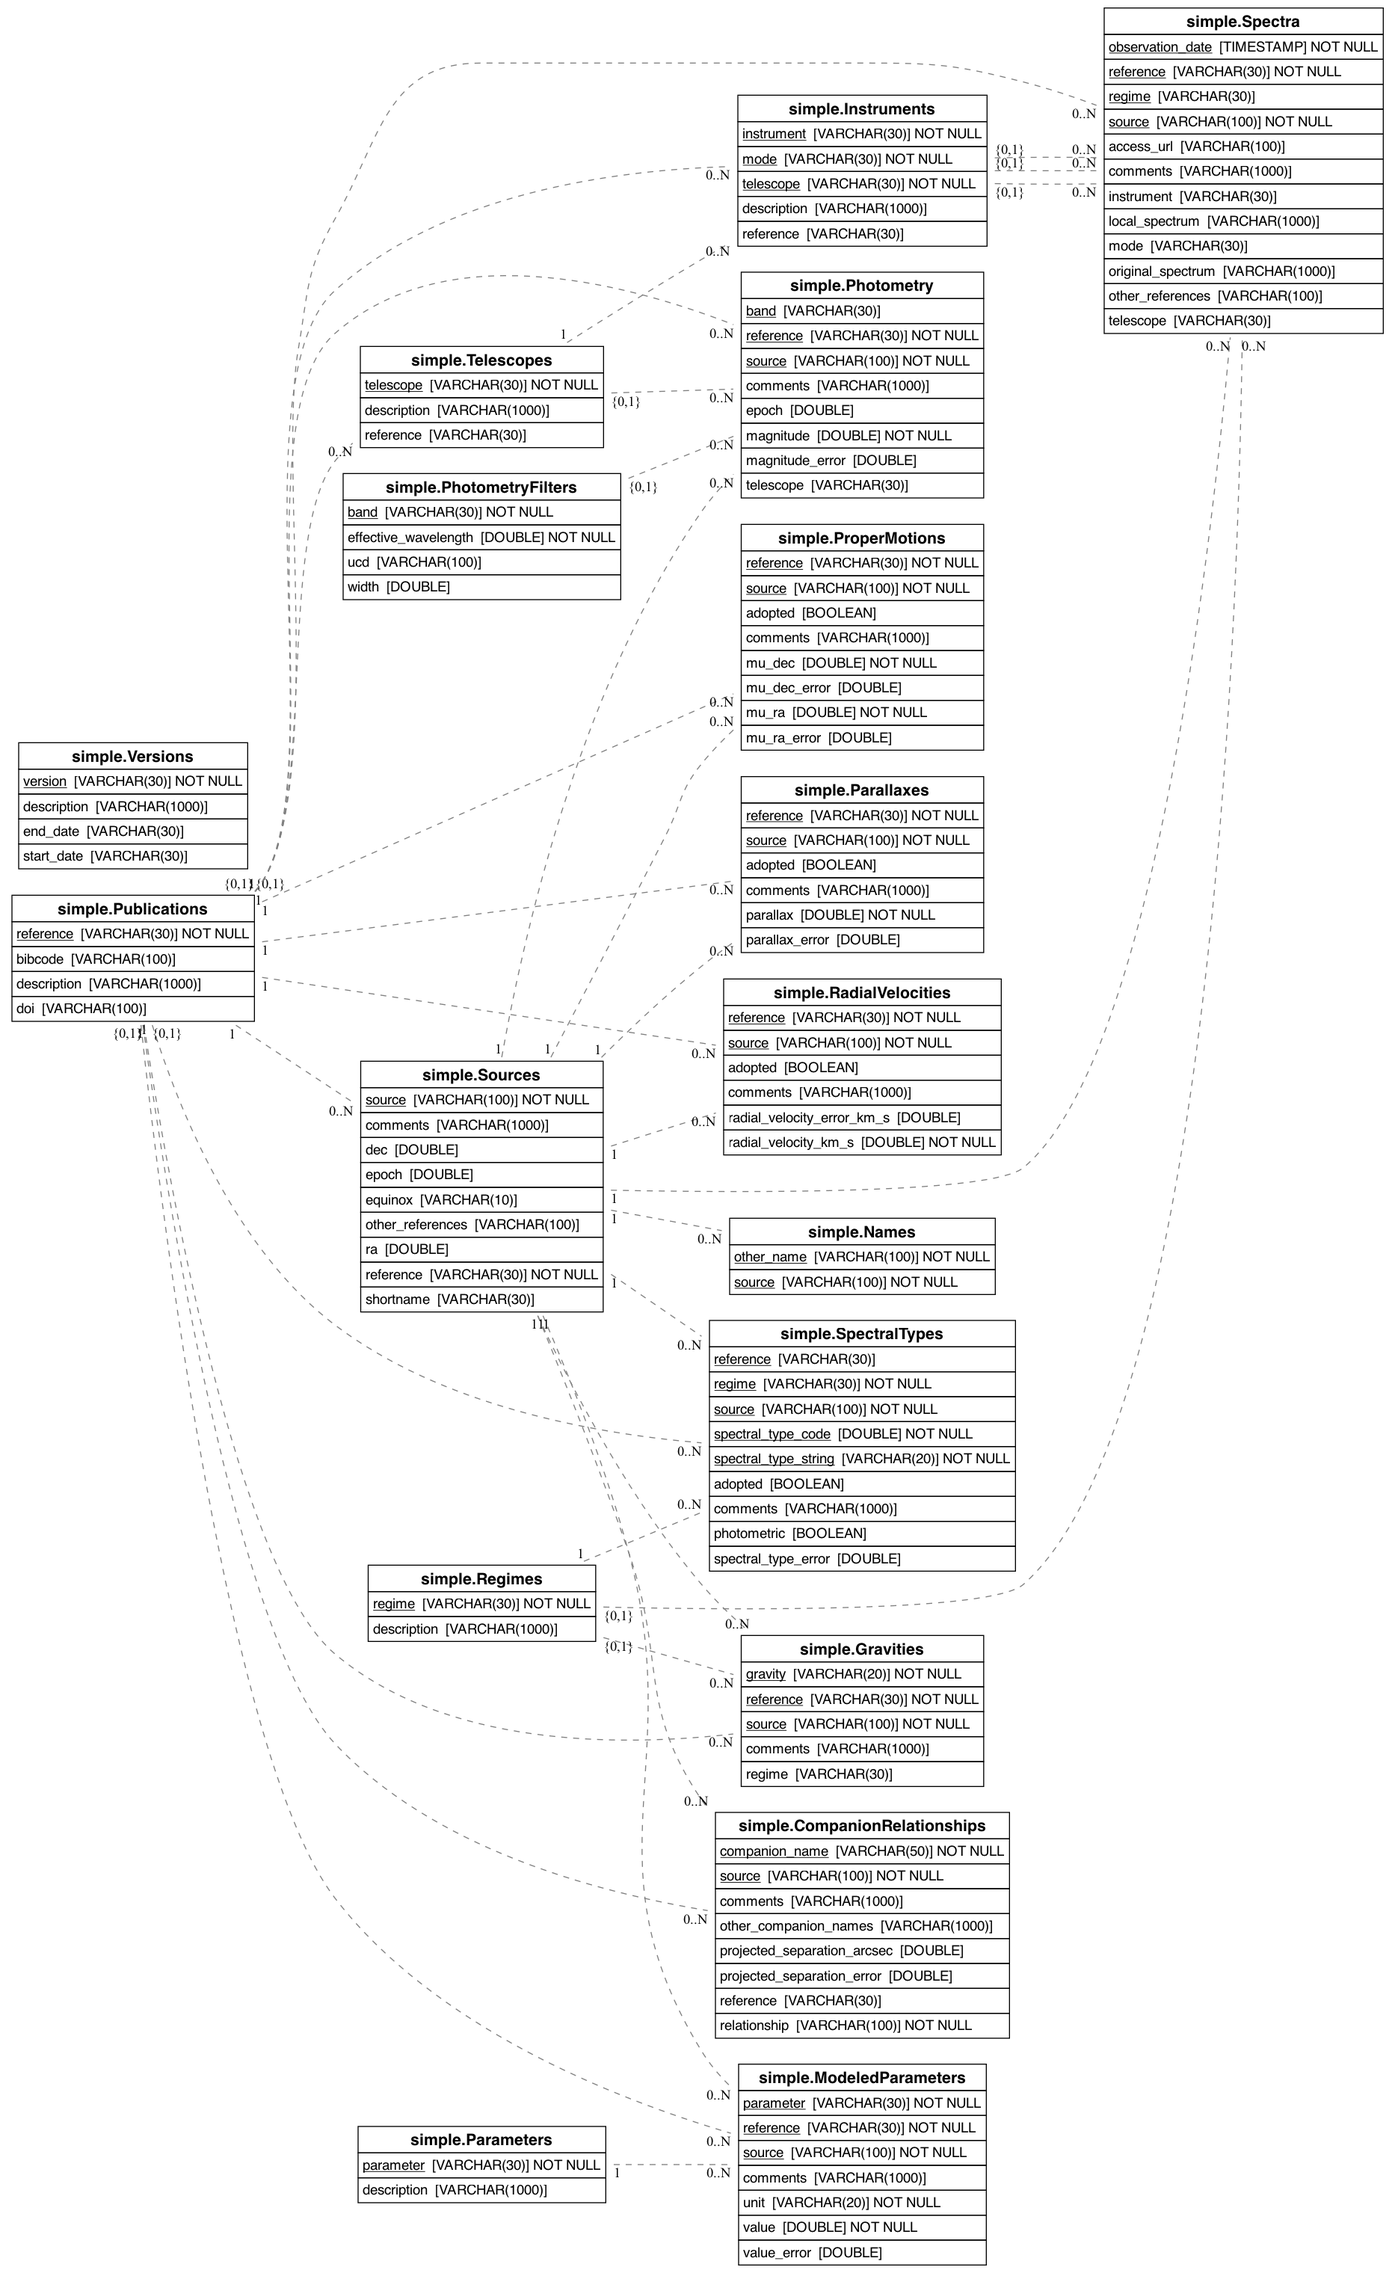
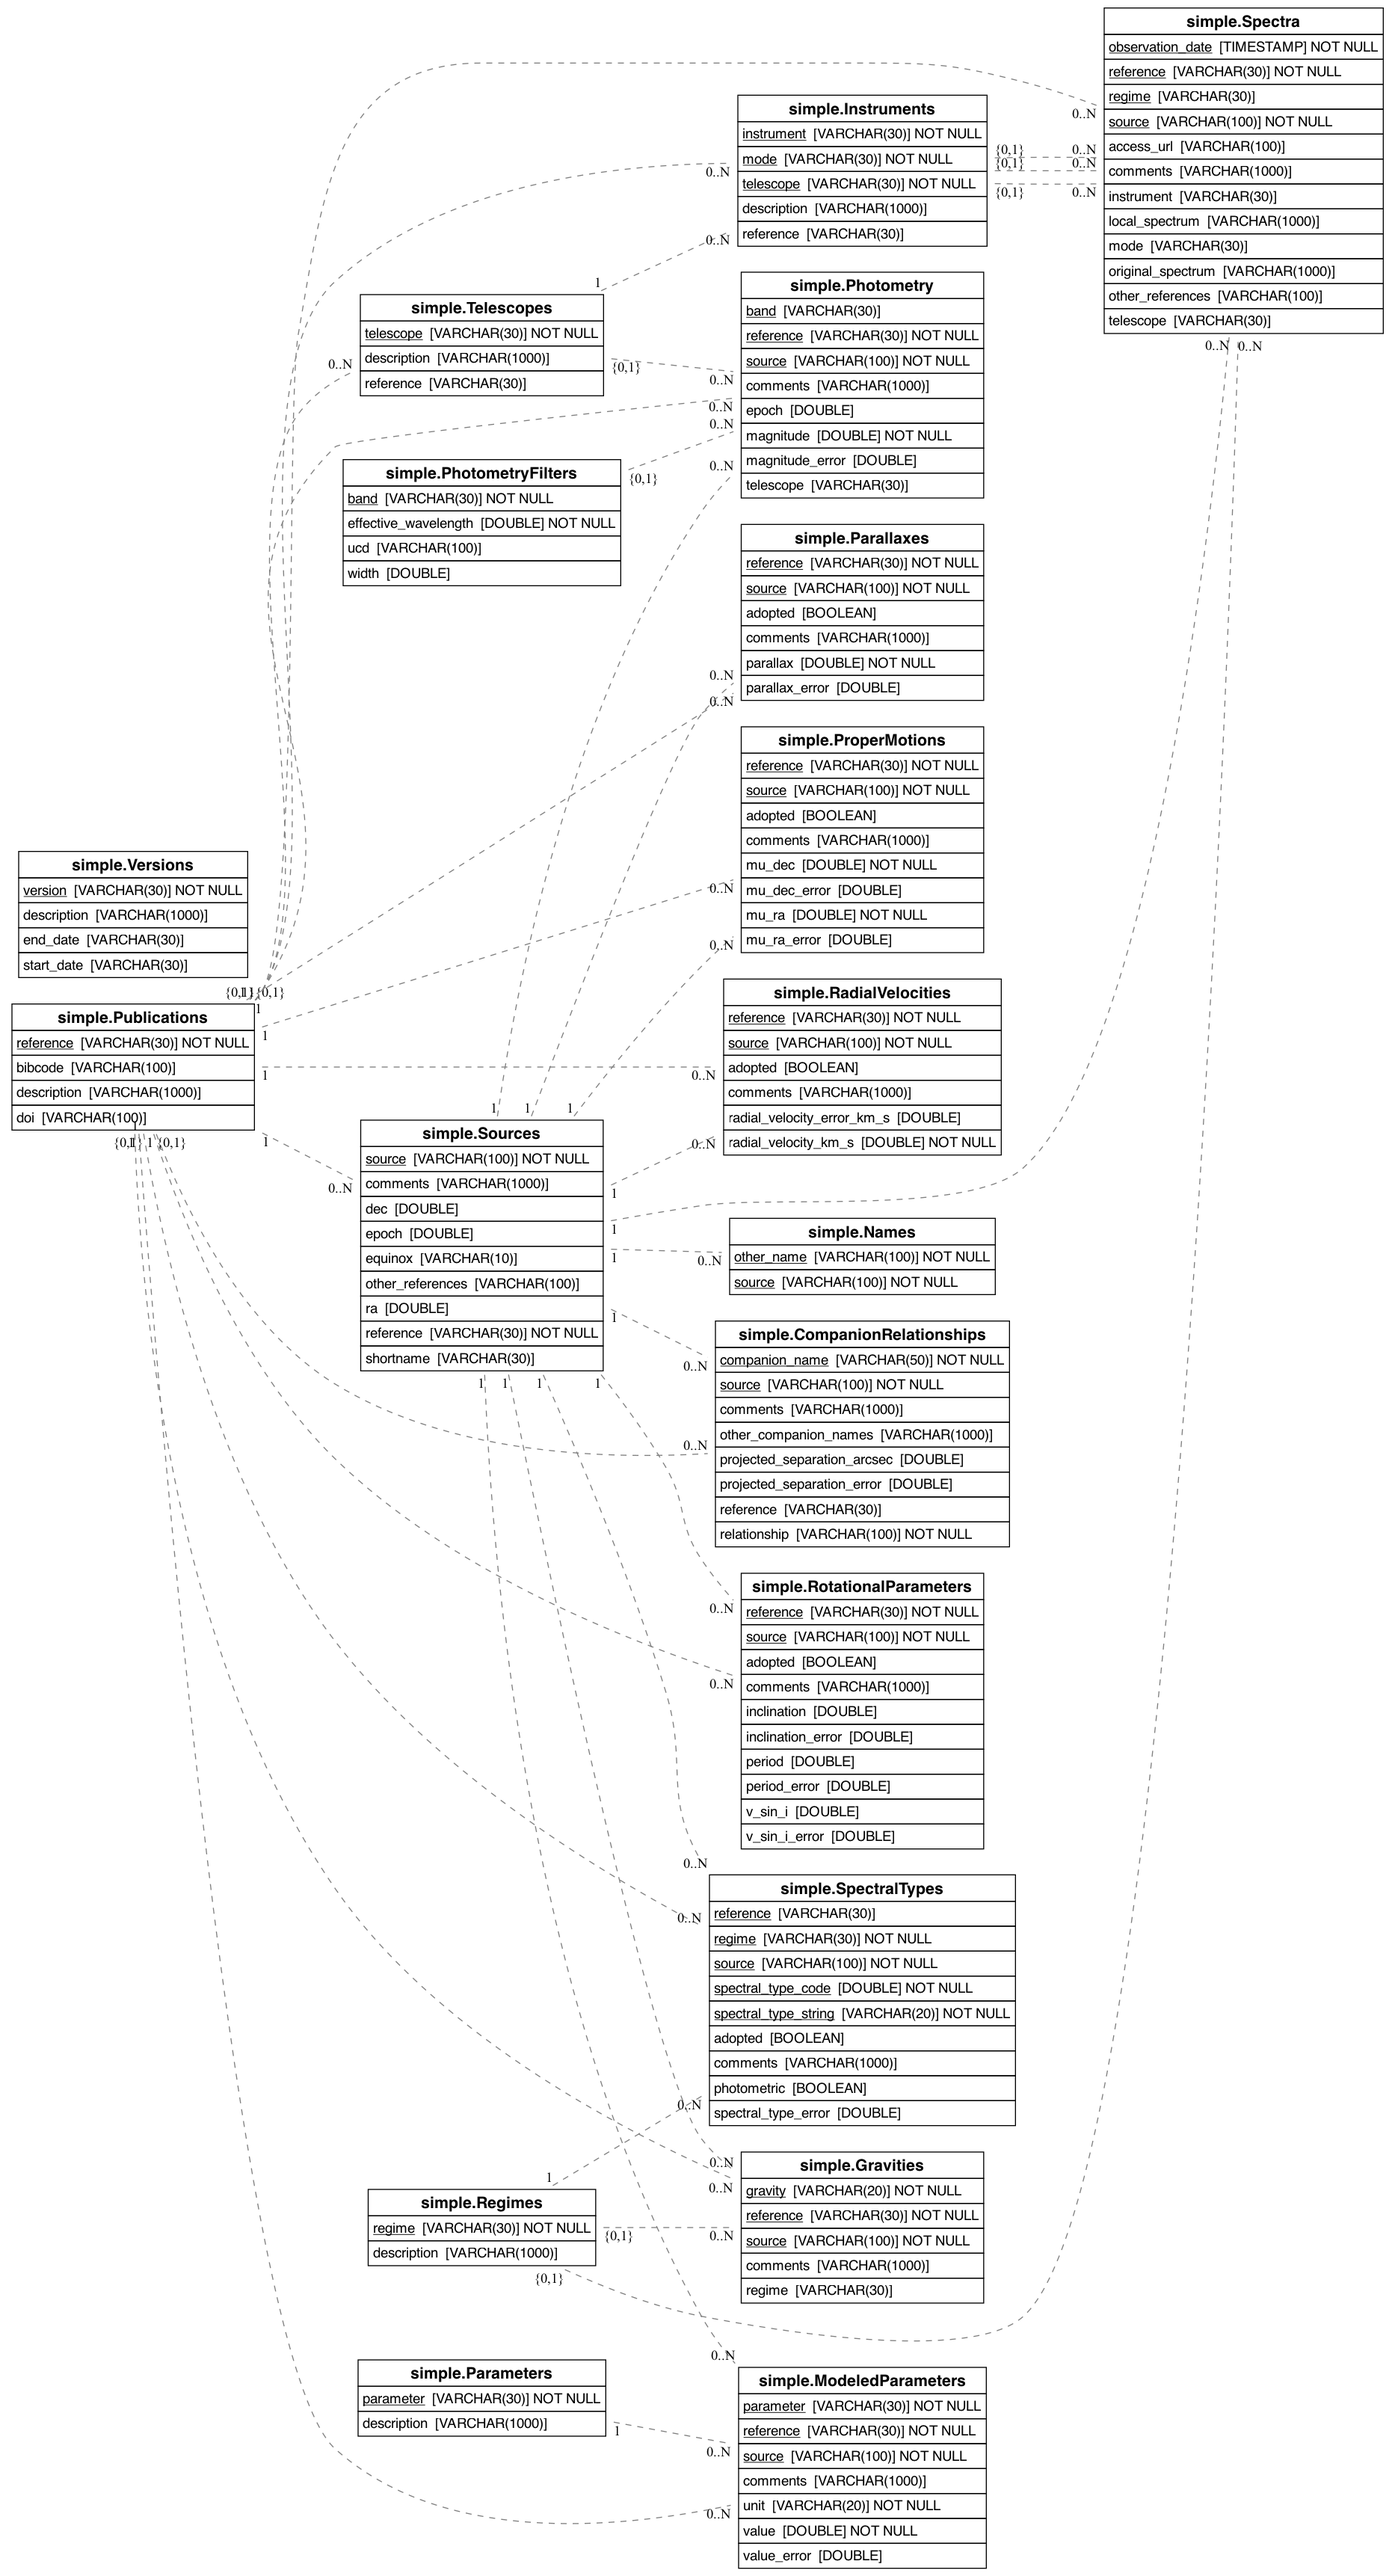
Updating documentation

diff --git a/docs/schema/RotationalParameters.md b/docs/schema/RotationalParameters.md
@@ -1,0 +1,28 @@
+# RotationalParameters
+Rotational parameters for sources
+
+
+Columns marked with an exclamation mark ( :exclamation:) may not be empty.
+| Column Name | Description | Datatype | Length | Units  | UCD |
+| --- | --- | --- | --- | --- | --- |
+| :exclamation:<ins>source</ins> | Main identifier for an object; links to Sources table | string | 100 |  | meta.id;meta.main  |
+| period | Rotational period | double |  | hr | time.period  |
+| period_error | Uncertainty of the rotational period | double |  | hr | stat.error;time.period  |
+| v_sin_i | Projected rotational velocity in km/s | double |  |  | phys.veloc.rotat  |
+| v_sin_i_error | Uncertainty of the projected rotational velocity | double |  | km/s | stat.error;phys.veloc.rotat  |
+| inclination | Inclination of the rotation axis | double |  | deg | pos.posAng  |
+| inclination_error | Uncertainty of the inclination | double |  | deg | stat.error;pos.posAng  |
+| adopted | Flag to indicate if this is the adopted entry | boolean |  |  | meta.code  |
+| comments | Free form comments for this entry | string | 1000 |  | meta.note  |
+| :exclamation:<ins>reference</ins> | Publication reference; links to Publications table | string | 30 |  | meta.ref  |
+
+## Indexes
+| Name | Columns | Description |
+| --- | --- | --- |
+| PK_RotationalParameters | ['#RotationalParameters.source', '#RotationalParameters.reference'] | Primary key for RotationalParameters table |
+
+## Foreign Keys
+| Description | Columns | Referenced Columns |
+| --- | --- | --- |
+| Link RotationalParameters source to Sources table | ['#RotationalParameters.source'] | ['#Sources.source'] |
+| Link RotationalParameters reference to Publications table | ['#RotationalParameters.reference'] | ['#Publications.reference'] |

diff --git a/docs/README.md b/docs/README.md
@@ -20,6 +20,7 @@ This documentation is generated from the [schema.yaml](simple/schema.yaml) file 
 - [Spectra](schema/Spectra.md)
 - [ModeledParameters](schema/ModeledParameters.md)
 - [CompanionRelationships](schema/CompanionRelationships.md)
+- [RotationalParameters](schema/RotationalParameters.md)
 
 ## Schema Diagram
 This diagram is generated from the [schema.yaml](simple/schema.yaml) file using [make_erd.py](scripts/make_erd.py).
